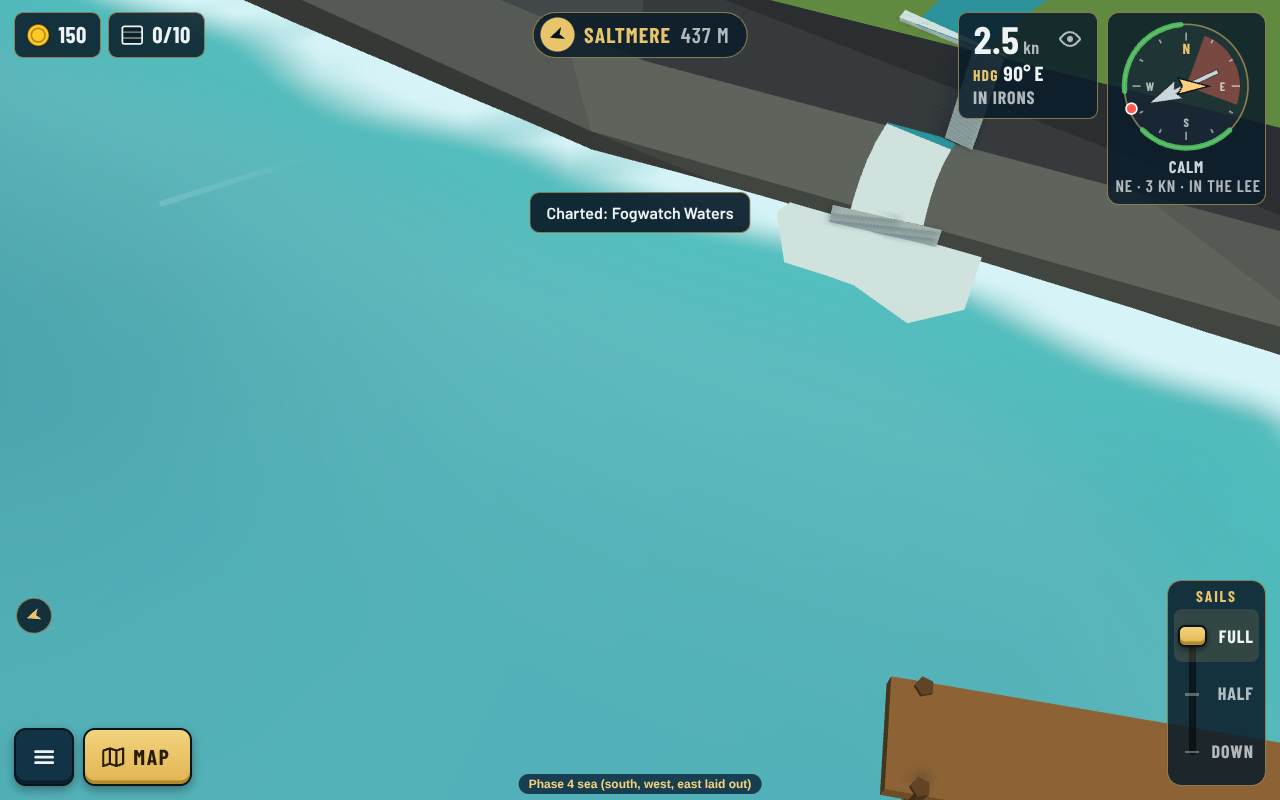
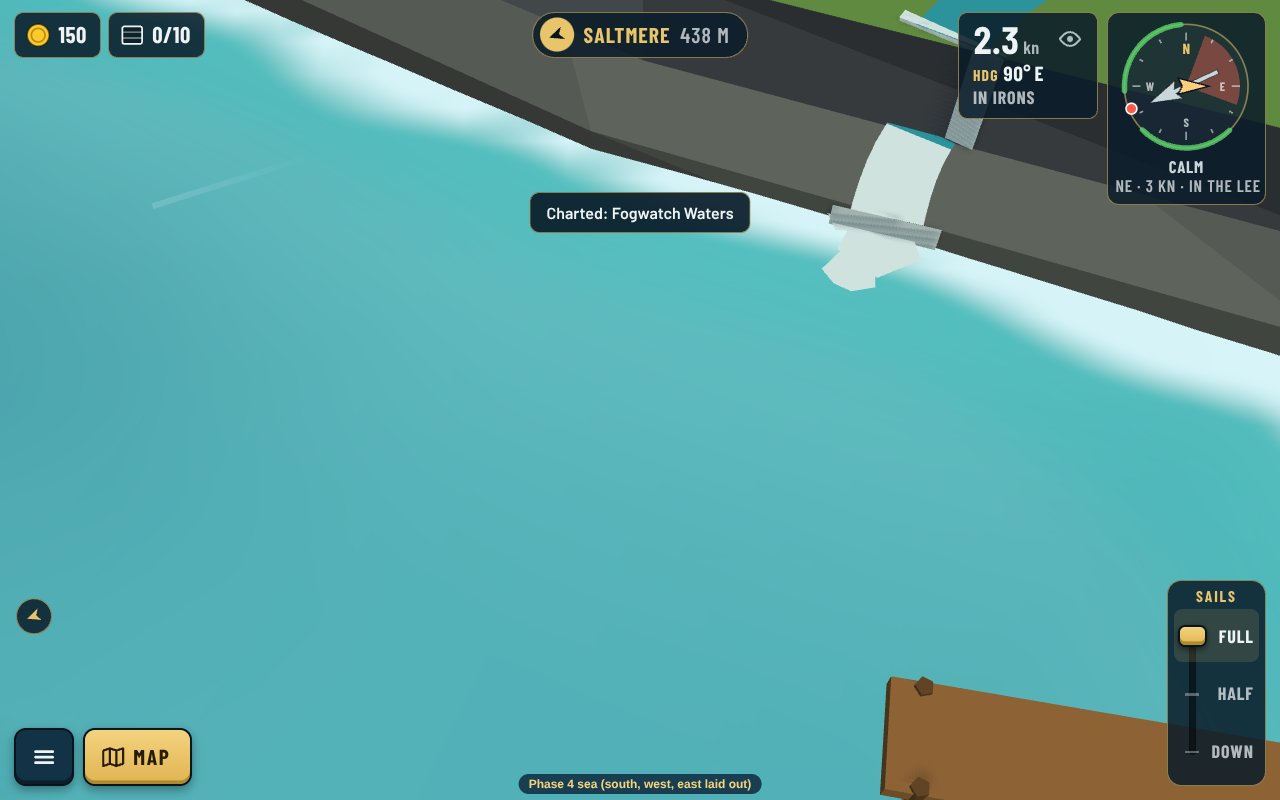
Waterfall: ragged foam patches on the sea instead of one disc
Claude-Session: https://claude.ai/code/session_016woYKHL37N2LpcxnCQsLjb

diff --git a/src/render/models/rivers.ts b/src/render/models/rivers.ts
@@ -194,9 +194,22 @@ function splash(
 ): Parts {
   if (lava && core) return [];
   if (!lava) {
-    // A low spill on a ledge; a wider ring on the sea, lying on the water.
-    const foam = new THREE.CircleGeometry(width * (sea ? 1.5 : 0.75), 7).rotateX(-Math.PI / 2);
-    return [paint(foam.translate(x, y + LIFT * (sea ? 1.5 : 1.1), z), RIVER_COLORS.white)];
+    // A low spill on a ledge; on the sea, three ragged patches of foam lying on the water.
+    if (!sea) {
+      const foam = new THREE.CircleGeometry(width * 0.75, 7).rotateX(-Math.PI / 2);
+      return [paint(foam.translate(x, y + LIFT * 1.1, z), RIVER_COLORS.white)];
+    }
+    return [
+      [0, 0, 0.6, 0],
+      [0.55, 0.35, 0.4, 1],
+      [-0.45, 0.45, 0.35, 2],
+    ].map(([dx, dz, r, turn]) => {
+      const foam = new THREE.CircleGeometry(width * r!, 5, turn!).rotateX(-Math.PI / 2);
+      return paint(
+        foam.translate(x + dx! * width, y + LIFT * 1.5, z + dz! * width),
+        RIVER_COLORS.white,
+      );
+    });
   }
   const puffs = sea ? 3 : 2;
   const out: Parts = [];

diff --git a/tests/island-files.test.ts b/tests/island-files.test.ts
@@ -148,7 +148,7 @@ const GOLDEN: Record<string, string[]> = {
   'palm-key': ['296:5af31071', '270:7e77b63a', '266:18f30d17', '266:18f30d17'],
   'lone-palm': Array(4).fill('13:2bd589f4'),
   // The east sea (decision 0173).
-  fogwatch: ['604:eef2b453', '725:4a16efe', '797:9ba9cf9a', '838:1bad57b0'],
+  fogwatch: ['606:fe365570', '727:cd97104f', '799:c7908d01', '840:acc90a91'],
   'the-giant': Array(4).fill('6:c84f56e6'),
   'his-wife': Array(4).fill('6:676eecc4'),
   'amber-strand': ['129:e66b7b39', '133:56673594', '136:e68e96ec', '136:e68e96ec'],

diff --git a/docs/decisions/0175-fogwatch-detail-pass-beach-width-heather-peat-and-rowans.md b/docs/decisions/0175-fogwatch-detail-pass-beach-width-heather-peat-and-rowans.md
@@ -23,4 +23,4 @@ Guillaume asked the Art director to compare Fogwatch ([0173](0173-east-sea-fogwa
 
 With rivers in island files ([0176](0176-rivers-of-water-and-lava.md)), Fogwatch has one water river: it rises on the top fell, drops down the four basalt tiers on their town-facing side as a stepped cascade, runs along the ledge above the voe and falls off the sea cliff into the voe by the harbour. It is on the south face so the camera and a player sailing in see it (a Múlafossur-style fall on the north coast would face away from the camera). Two drying racks, four sheep and a peat stack made room in the 6000-triangle budget (5796 at level 4). Added with `npm run island -- fogwatch river --points …`.
 
-After the Art director's review, three changes to how water rivers are drawn (`src/render/models/rivers.ts`, every island): a fall that lands on the beach next to the sea spills over the shingle as white foam and off the beach edge into the sea, with a ring of foam on the water, instead of stopping on the beach; waterfall sheets are 1.5 times the stream's width with a white lip where the water tips over; the foam at the foot of a fall is a smaller, lower spill.
+After the Art director's review, three changes to how water rivers are drawn (`src/render/models/rivers.ts`, every island): a fall that lands on the beach next to the sea spills over the shingle as white foam and off the beach edge into the sea, with ragged patches of foam on the water, instead of stopping on the beach; waterfall sheets are 1.5 times the stream's width with a white lip where the water tips over; the foam at the foot of a fall is a smaller, lower spill.
